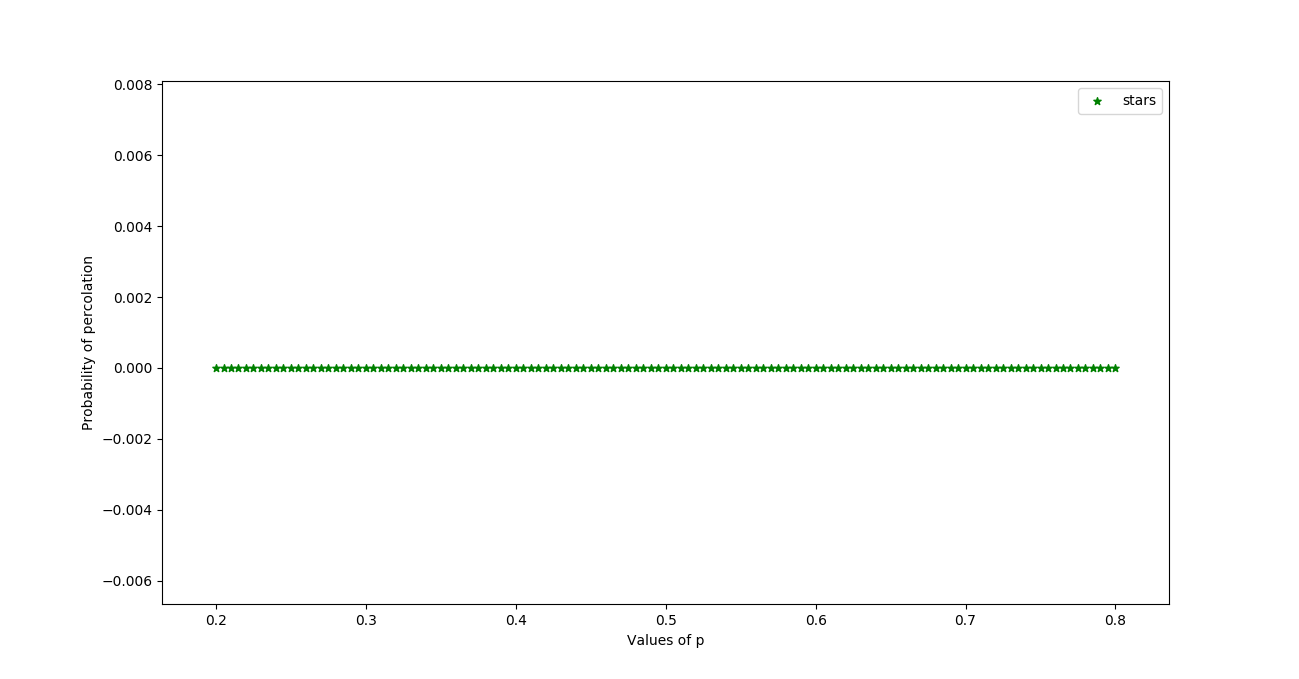
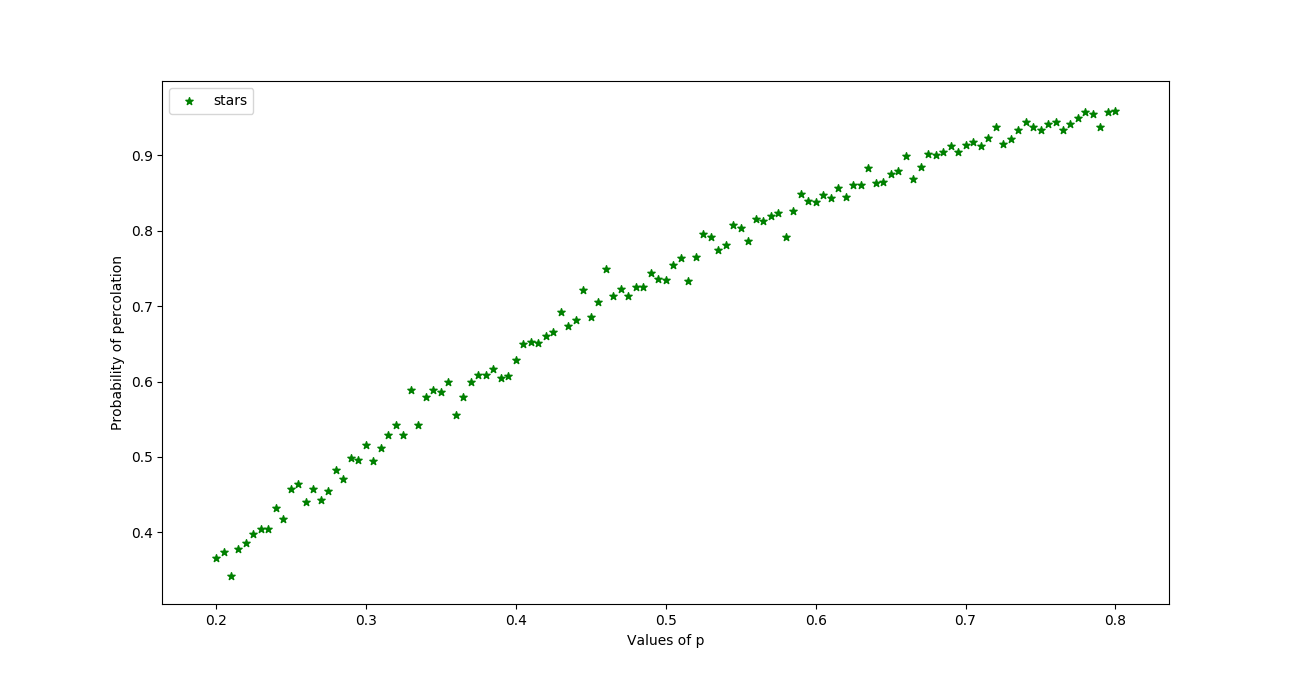
New graph generated and problem now works faster

diff --git a/Percolation Thresholds in Square/percolation.py b/Percolation Thresholds in Square/percolation.py
@@ -22,20 +22,25 @@ def percolate(M):
     for i in range(len(M)):
 	if(M[0][i]==1):
             M[0][i]==2
+         
     
     for i in range(len(M)-1):
     	for j in range(len(M)):
     	    if(M[i+1][j]==1):
     	        if(M[i][j]==1 or M[i][j]==2):
     		    M[i+1][j]==2
-    for qwerty in range(len(M)):
-        for i in range(len(M)-1):
-            for j in range(len(M)):
-                if(M[i+1][j]==1):
-                    if(j+1<len(M) and M[i+1][j+1]==2):
-                        M[i+1][j]==2
-                    elif(j-1>=0 and M[i+1][j-1]==2):
-                        M[i+1][j]==2
+        for h in range(len(M)):
+            if(M[i+1][h]==1):
+                if(h-1>=0 and M[i+1][h-1]==2):
+                    M[i+1][h]=2
+
+        for g in range(len(M)):
+            if(M[i+1][len(M)-1-g]==1):
+                if(len(M)-1-g+1<len(M) and M[i+1][len(M)-1-g+1==2]):
+                    M[i+1][len(M)-1-g]=2
+                
+
+                  
     for i in range(len(M)):
         if(M[len(M)-1][i]==2):
             return 1
